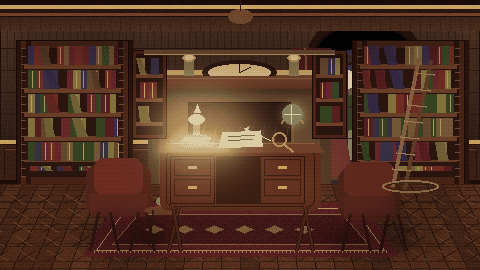
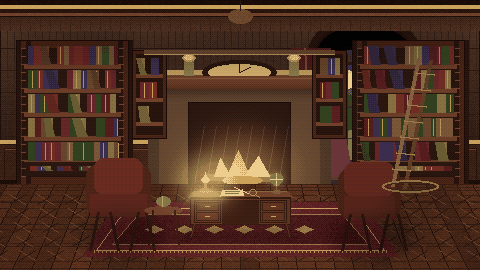
Library: shrink oversized desk to character scale and regenerate art
Desk was taller than the characters and hid the fireplace; redrawn at
waist height below the hearth, props scaled down, desk/globe hotspots
updated to match.

Copilot-Session: 0b422f5a-29cd-4bcb-a401-b6b8a081a488

Changed region(s): [[0.2812, 0.2963, 0.6875, 0.9481], [0.75, 0.1778, 0.8125, 0.2074], [0.4688, 0.237, 0.5, 0.2667]]

diff --git a/tools/art/library.py b/tools/art/library.py
@@ -190,51 +190,49 @@ def shelves(img):
 
 
 def desk(img):
+    # roughly waist height for the ~85px characters, kept below the fireplace opening
     d = ImageDraw.Draw(img)
-    d.rounded_rectangle([160, 116, 320, 180], 8, fill=hx("5a2c1b"))
-    d.rounded_rectangle([166, 120, 314, 176], 7, outline=hx("2a120b"))
-    d.polygon([(156, 122), (324, 122), (316, 112), (164, 112)], fill=hx("6f3d26"))
-    d.line([(166, 113), (314, 113)], fill=hx("8d593b"))
-    for px0 in (170, 260):
-        d.rectangle([px0, 126, px0 + 44, 173], outline=hx("26110b"))
-        for yy in (129, 149):
-            d.rectangle([px0 + 4, yy, px0 + 40, yy + 16], outline=hx("30170f"))
-            d.rectangle([px0 + 18, yy + 7, px0 + 26, yy + 9], fill=GOLD)
-    d.rectangle([216, 126, 260, 173], fill=hx("2e150d"))
-    for lx in (178, 306):
-        d.line([(lx, 176), (lx - 10, 220)], fill=hx("30140c"), width=4)
-        d.line([(lx, 176), (lx - 10, 220)], fill=hx("5a2b1a"), width=2)
-    for lx in (304, 172):
-        d.line([(lx, 176), (lx + 8, 220)], fill=hx("30140c"), width=4)
-        d.line([(lx, 176), (lx + 8, 220)], fill=hx("5a2b1a"), width=2)
-    shadow(img, "polygon", [(150, 178), (330, 178), (348, 224), (132, 224)], 0.28, 10)
+    shadow(img, "polygon", [(186, 200), (294, 200), (304, 212), (176, 212)], 0.3, 5)
+    d.polygon([(188, 167), (292, 167), (287, 161), (193, 161)], fill=hx("6f3d26"))
+    d.line([(194, 161), (286, 161)], fill=hx("8d593b"))
+    d.rectangle([190, 167, 290, 194], fill=hx("5a2c1b"), outline=hx("2a120b"))
+    d.line([(190, 168), (290, 168)], fill=hx("2a120b"))
+    for px0 in (194, 260):
+        d.rectangle([px0, 170, px0 + 26, 192], outline=hx("26110b"))
+        for yy in (172, 182):
+            d.rectangle([px0 + 2, yy, px0 + 24, yy + 8], outline=hx("30170f"))
+            d.rectangle([px0 + 11, yy + 4, px0 + 15, yy + 4], fill=GOLD)
+    d.rectangle([222, 170, 258, 194], fill=hx("2e150d"))
+    for lx, dx in ((194, -3), (286, 3)):
+        d.line([(lx, 194), (lx + dx, 206)], fill=hx("30140c"), width=3)
+        d.line([(lx, 194), (lx + dx, 206)], fill=hx("5a2b1a"), width=1)
 
 
 def desk_props(img):
     d = ImageDraw.Draw(img)
     # oil lamp
-    d.ellipse([182, 104, 210, 112], fill=hx("8a622a"))
-    d.rectangle([193, 90, 199, 104], fill=hx("a67838"))
-    d.ellipse([188, 84, 204, 94], fill=hx("ead8a8"))
-    d.ellipse([190, 86, 202, 92], fill=hx("fff0b8"))
-    d.polygon([(194, 82), (197, 74), (200, 82)], fill=hx("ffd870"))
-    light(img, "ellipse", [150, 64, 250, 138], hx("ffd08a"), 0.58, 18)
-    light(img, "polygon", [(180, 104), (212, 104), (238, 122), (154, 122)], hx("fff0c8"), 0.48, 5)
+    d.ellipse([199, 158, 211, 162], fill=hx("8a622a"))
+    d.rectangle([204, 151, 206, 158], fill=hx("a67838"))
+    d.ellipse([201, 147, 209, 152], fill=hx("ead8a8"))
+    d.ellipse([202, 148, 208, 151], fill=hx("fff0b8"))
+    d.polygon([(204, 146), (205, 142), (206, 146)], fill=hx("ffd870"))
+    light(img, "ellipse", [180, 130, 232, 176], hx("ffd08a"), 0.5, 10)
+    light(img, "polygon", [(196, 160), (214, 160), (226, 168), (186, 168)], hx("fff0c8"), 0.4, 3)
     # papers, quill, magnifier
-    d.polygon([(222, 102), (260, 100), (262, 116), (218, 118)], fill=hx("d7c5a0"))
-    d.line([(228, 106), (254, 105)], fill=hx("7a6a54"))
-    d.line([(228, 110), (252, 109)], fill=hx("7a6a54"))
-    d.line([(244, 98), (270, 110)], fill=hx("e8e0d0"))
-    d.polygon([(244, 98), (249, 96), (246, 101)], fill=hx("d0d0d0"))
-    d.ellipse([272, 102, 286, 116], outline=hx("b88a4c"), width=2)
-    d.line([(284, 114), (292, 121)], fill=hx("b88a4c"), width=2)
+    d.polygon([(222, 160), (242, 159), (243, 165), (220, 166)], fill=hx("d7c5a0"))
+    d.line([(225, 161), (239, 161)], fill=hx("7a6a54"))
+    d.line([(225, 163), (238, 163)], fill=hx("7a6a54"))
+    d.line([(234, 157), (248, 163)], fill=hx("e8e0d0"))
+    d.ellipse([249, 159, 256, 165], outline=hx("b88a4c"))
+    d.line([(255, 164), (259, 167)], fill=hx("b88a4c"))
     # globe
-    d.line([(292, 89), (292, 112)], fill=hx("7b572e"), width=2)
-    d.arc([281, 84, 303, 106], 190, 350, fill=hx("9d7440"), width=2)
-    d.ellipse([282, 74, 302, 94], fill=hx("56745c"))
-    d.line([(291, 75), (291, 93)], fill=hx("a0c29a"))
-    d.line([(284, 84), (300, 84)], fill=hx("a0c29a"))
-    light(img, "ellipse", [280, 72, 306, 98], hx("d8c890"), 0.25, 4)
+    d.line([(276, 151), (276, 162)], fill=hx("7b572e"))
+    d.ellipse([272, 160, 281, 163], fill=hx("7b572e"))
+    d.arc([269, 143, 283, 157], 190, 350, fill=hx("9d7440"))
+    d.ellipse([270, 143, 282, 155], fill=hx("56745c"))
+    d.line([(276, 143), (276, 155)], fill=hx("a0c29a"))
+    d.line([(270, 149), (282, 149)], fill=hx("a0c29a"))
+    light(img, "ellipse", [268, 141, 284, 157], hx("d8c890"), 0.2, 3)
 
 
 def chairs(img):
@@ -290,7 +288,7 @@ def paint():
     desk(img)
     desk_props(img)
     ladder(img)
-    light(img, "ellipse", [150, 118, 334, 236], hx("9a5426"), 0.11, 18)
+    light(img, "ellipse", [170, 150, 310, 230], hx("9a5426"), 0.11, 18)
     shadow(img, "ellipse", [0, 0, W - 1, 40], 0.22, 12, hx("2a130d"))
     return tall(img, ceiling)
 
